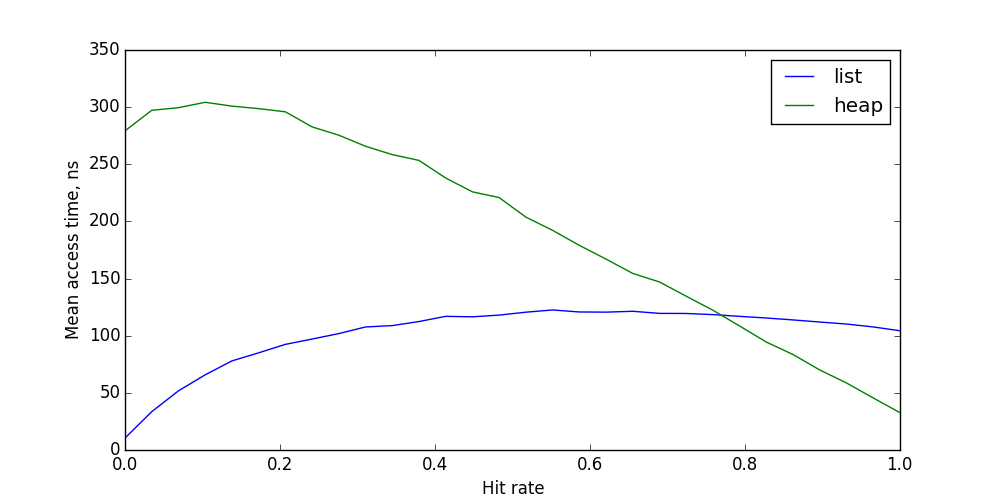
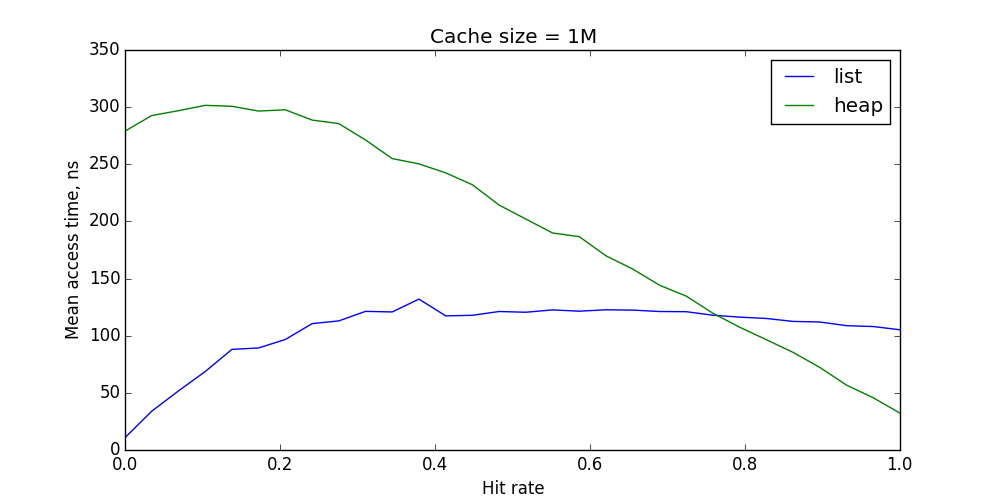
Plot title

diff --git a/plots/plot.py b/plots/plot.py
@@ -4,6 +4,13 @@ import numpy as np
 
 EXE = "../measure"
 
+def get_human_size(size):
+    power_to_letter = [(10**9, "G"), (10**6, "M"), (10**3, 'K')]
+    for power, letter in power_to_letter:
+        if size % power == 0:
+            return str(size // power) + letter
+
+    
 cache_size = 10**6
 is_hit_size = 194867
 num_requests = 10**7
@@ -19,6 +26,7 @@ for typ in ["list", "heap"]:
         times.append(time)
     lines[typ], = plt.plot(hit_rates, times)
 
+plt.title("Cache size = {}".format(get_human_size(cache_size)))
 plt.xlabel("Hit rate")
 plt.ylabel("Mean access time, ns")
 plt.legend(lines.values(), lines.keys())
